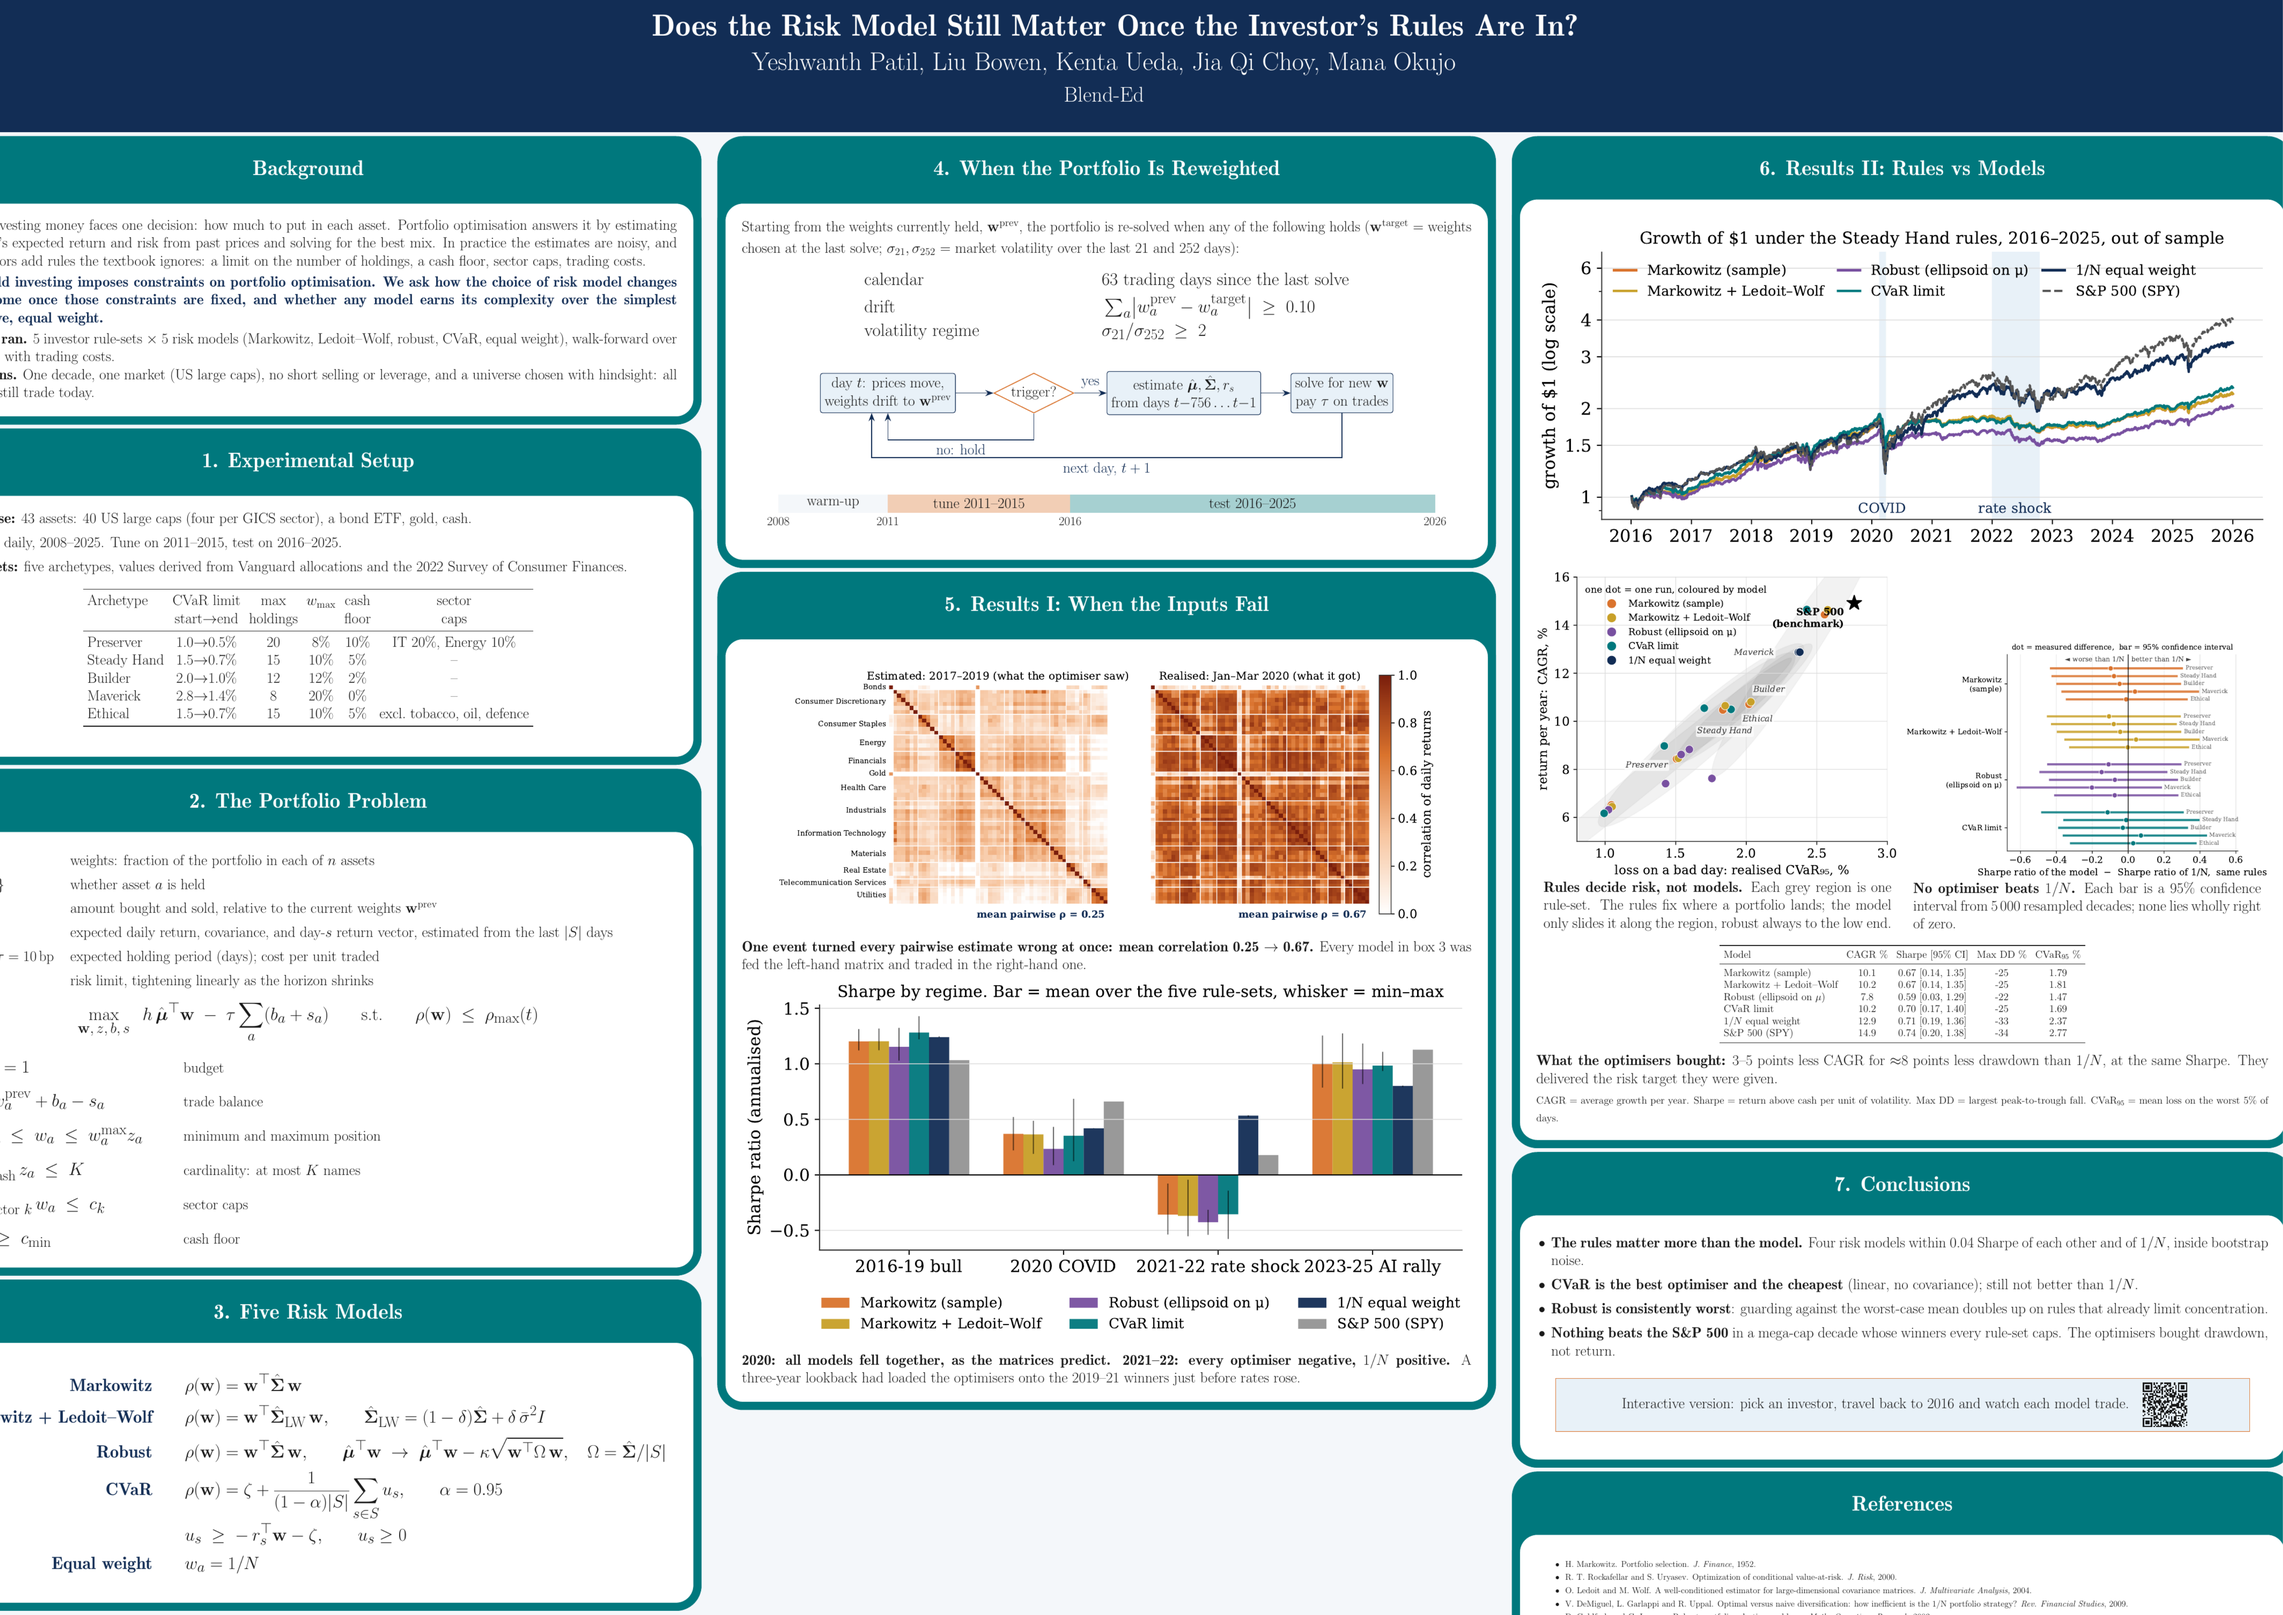
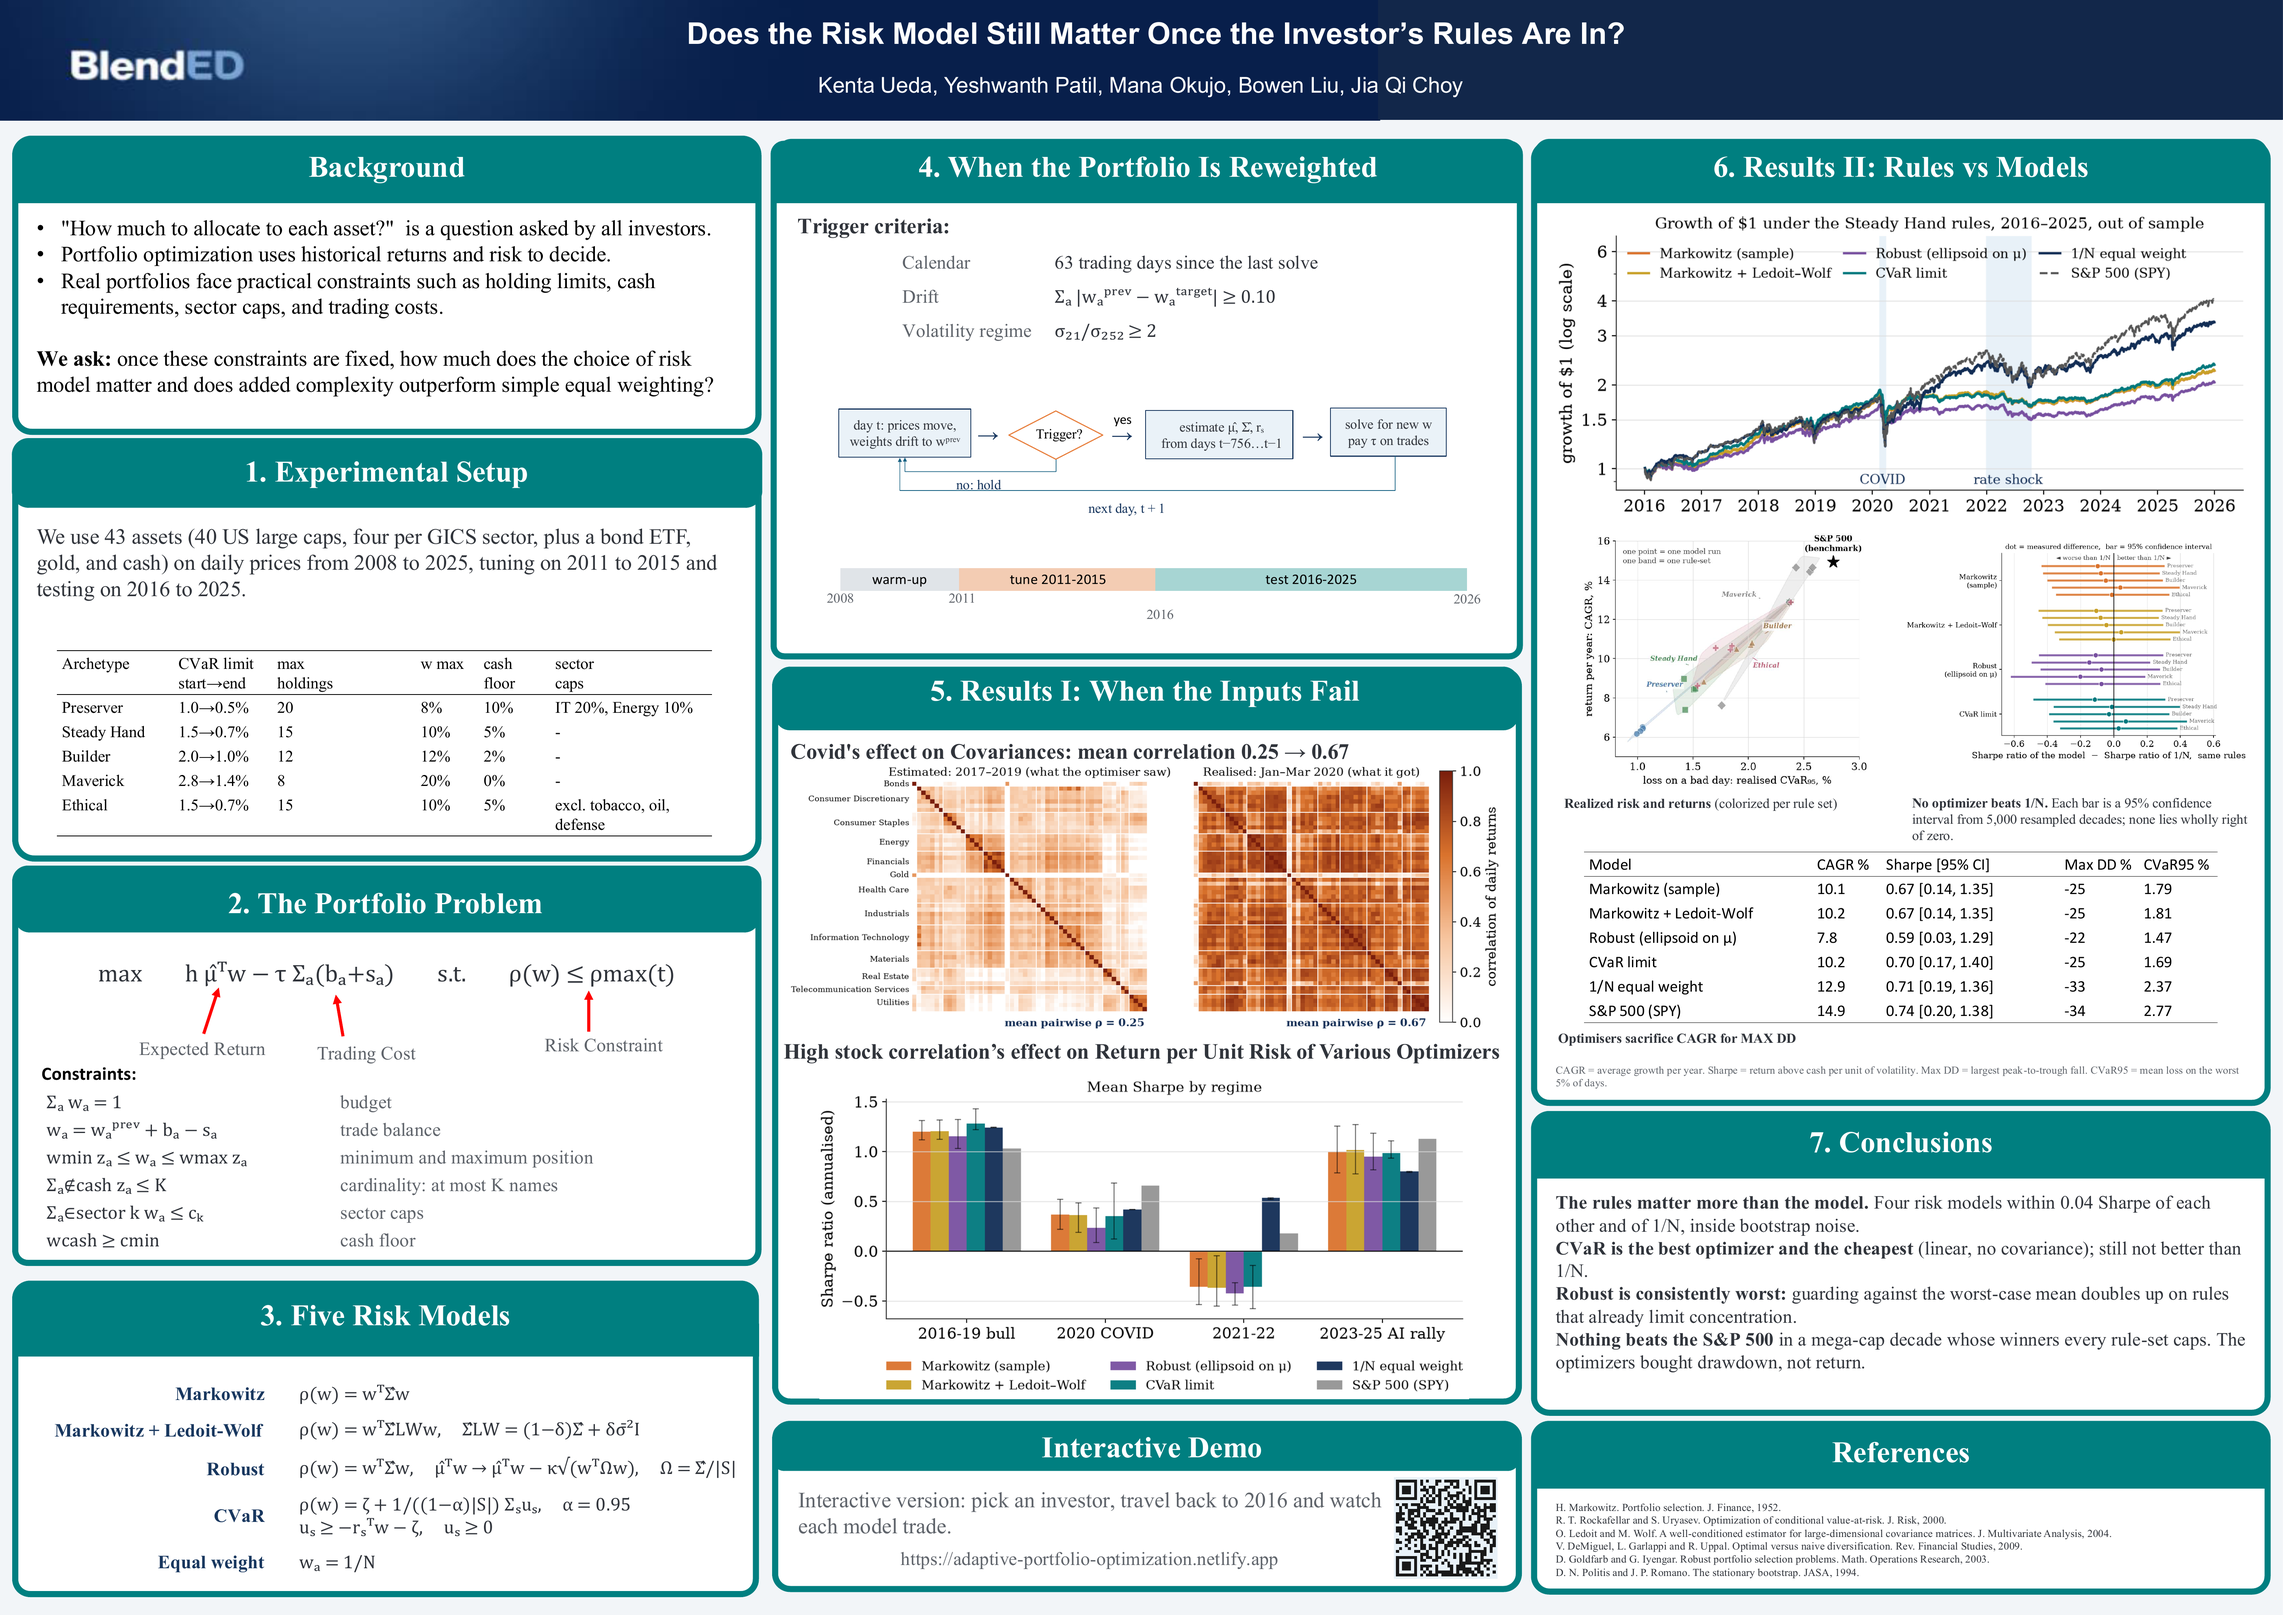
Update README with final poster artwork

diff --git a/README.md b/README.md
@@ -41,7 +41,8 @@ reproducible; they do not overwrite the website's precomputed results.
   <img src="docs/assets/final-poster.png" width="100%" alt="Final project poster">
 </p>
 
-The frozen website contains 54 assets (51 stocks, AGG, GLD, and CASH), SPY as
+The final poster reports the core experiment on 43 assets. The frozen website
+contains a broader 54-asset universe (51 stocks, AGG, GLD, and CASH), SPY as
 the comparison benchmark, six investor profiles, five model views, and 30
 profile-model runs covering `2016-01-04` through `2025-12-31`.
 
